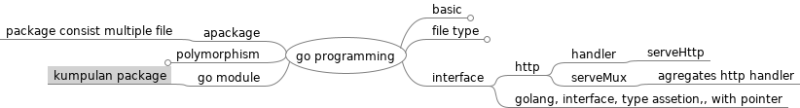
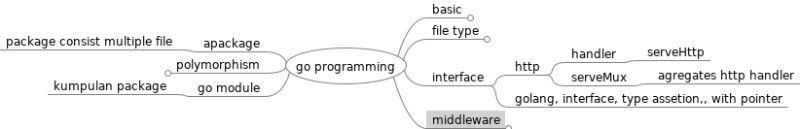
update lecture notes

Changed region(s): [[0.0625, 0.3611, 1.0, 1.0], [0.0, 0.0278, 0.625, 0.4722]]

diff --git a/go programming.mm b/go programming.mm
@@ -44,5 +44,16 @@
 <node CREATED="1651068314684" ID="ID_1461340350" MODIFIED="1651068317614" POSITION="left" TEXT="go module">
 <node CREATED="1651068318747" ID="ID_1338610260" MODIFIED="1651068324116" TEXT="kumpulan package"/>
 </node>
+<node CREATED="1651330245094" FOLDED="true" ID="ID_1758140287" MODIFIED="1651331467870" POSITION="right" TEXT="middleware">
+<node CREATED="1651330248653" ID="ID_299459683" MODIFIED="1651330255967" TEXT="serve as chain of servehttp"/>
+<node CREATED="1651330311086" ID="ID_1857984420" MODIFIED="1651330315397" TEXT="myMiddleware">
+<node CREATED="1651330315587" ID="ID_221980051" MODIFIED="1651330319597" TEXT="http.handler"/>
+</node>
+<node CREATED="1651330588865" ID="ID_395082415" MODIFIED="1651330592548" TEXT="x frame options"/>
+<node CREATED="1651330595514" ID="ID_903217605" MODIFIED="1651330599090" TEXT="xss protection"/>
+<node CREATED="1651331457379" ID="ID_1715254955" MODIFIED="1651331462216" TEXT="composable middleware">
+<node CREATED="1651331462413" ID="ID_915482660" MODIFIED="1651331464732" TEXT="pake alice"/>
+</node>
+</node>
 </node>
 </map>
